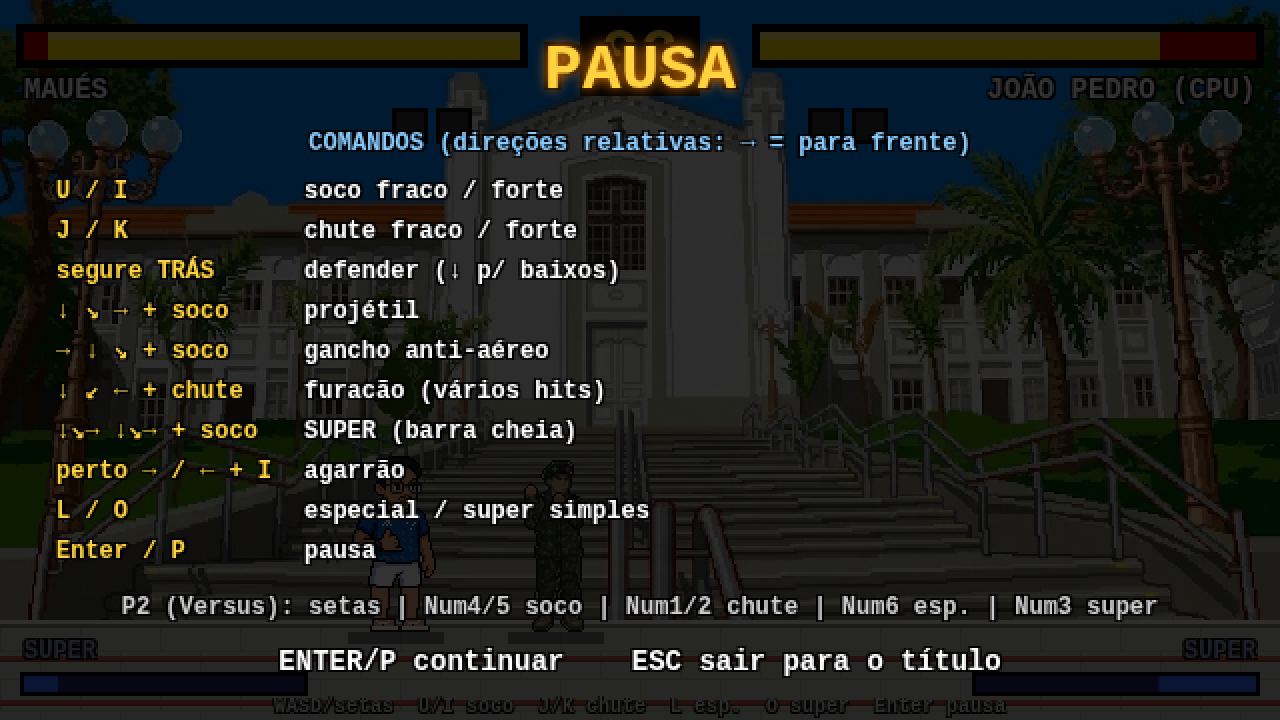
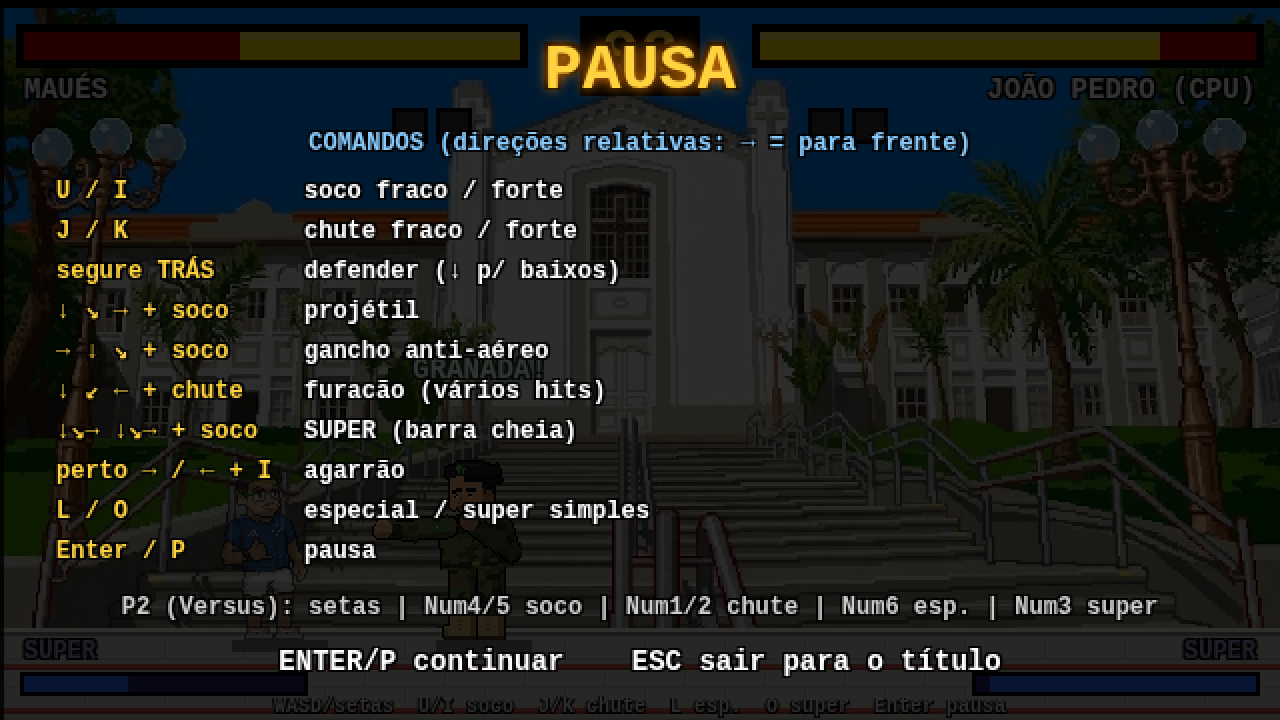
Update João Pedro sprite parts and alignment.
Replace the João Pedro part sprites and screenshots, and draw those parts from partsMeta so the hips and legs line up with the new art.

diff --git a/js/fighter.js b/js/fighter.js
@@ -238,7 +238,7 @@ class Fighter {
     g.save(); g.translate(x, y); g.scale(f * 0.5, 0.5); if (this.flash % 4 > 1) g.globalAlpha = 0.5;
     if (pose === "down" || pose === "fall") { g.rotate(pose === "fall" ? -1.0 : -Math.PI / 2); g.drawImage(win, -win.width / 2 + 6, -win.height + 4); g.restore(); return; }
     if (pose === "win") { g.drawImage(win, -win.width / 2, -win.height); g.restore(); return; }
-    const LH = legL.height, ox = -15, heavy = this.m && this.m.heavy;
+    const M = this.cfg.partsMeta || { ox: -15, legX: [1, 12] }, LH = legL.height, ox = M.ox, heavy = this.m && this.m.heavy;
     let hipY = -LH + 2, rot = 0, dx = 0, sy = 1, rl = 0, rr = 0;
     const crouchP = ["crouch", "cpunch", "ckick", "cblock", "cupper"].includes(pose), air = ["jump", "jpunch", "jkick", "upper"].includes(pose);
     if (crouchP) { sy = 0.6; hipY = -LH * 0.6 + 2; }
@@ -251,7 +251,7 @@ class Fighter {
     if (["punch", "cpunch", "jpunch"].includes(pose)) { dx = 3; rot = 0.05; }
     const leg = (im, lx, r, s2) => { g.save(); g.translate(lx + im.width / 2, hipY); g.rotate(r); g.scale(1, s2); g.drawImage(im, -im.width / 2, 0); g.restore(); };
     g.translate(dx, 0);
-    leg(legL, ox + 1, rl, sy); leg(legR, ox + 12, rr, rr < -1 ? 1 : sy);
+    leg(legL, ox + M.legX[0], rl, sy); leg(legR, ox + M.legX[1], rr, rr < -1 ? 1 : sy);
     g.save(); g.translate(0, hipY + 2); g.rotate(rot); g.drawImage(up, ox, -up.height); g.restore();
     if (pose === "upper" && this.anim % 4 < 2) { g.fillStyle = this.cfg.accent + "88"; g.fillRect(-30, -110, 12, 90); }
     g.restore();

diff --git a/js/characters.js b/js/characters.js
@@ -10,7 +10,7 @@ const CHARACTERS = [
     sprite: "assets/maues.png", spriteLegs: true, skin: "#e9a57e", legX: [9, 24], punchSprite: "assets/maues_punch.png", projectile: "chinelo",
     specials: { fireball: "CHINELADA", dp: "GANCHO DO MAUÉS", spin: "FURACÃO DE CHINELO", super: "SUPER CHINELADA" },
     quote: "Chinelo branco não perdoa ninguém!" },
-  { name: "João Pedro", color: "#4a5530", accent: "#3fa34d", stats: { speed: 4, power: 8, health: 9 }, sprite: null, parts: "assets/joao/", projectile: "granada",
+  { name: "João Pedro", color: "#4a5530", accent: "#3fa34d", stats: { speed: 4, power: 8, health: 9 }, sprite: null, parts: "assets/joao/", partsMeta: { ox: -22, legX: [7, 21] }, projectile: "granada",
     specials: { fireball: "GRANADA", dp: "GANCHO DE COMANDO", spin: "RAJADA DE COTURNO", super: "BOMBARDEIO TÁTICO" },
     quote: "Missão cumprida. Próximo da fila!" },
   { name: "Lutador 3", color: "#3bd16f", accent: "#1a1a1a", stats: { speed: 4, power: 9, health: 8 }, sprite: null,
